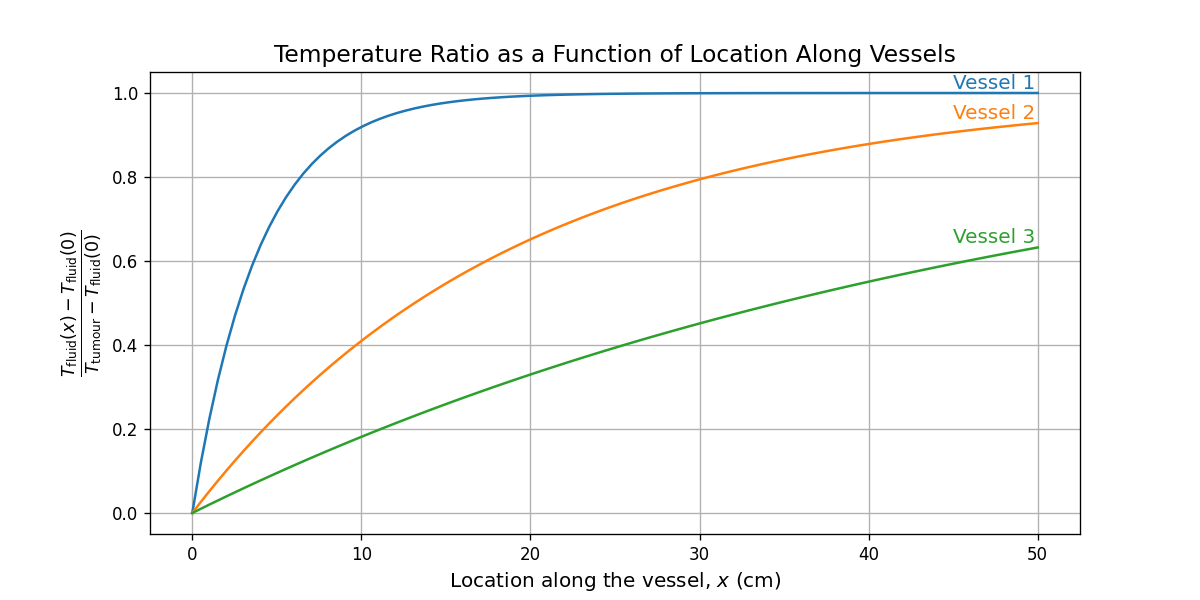
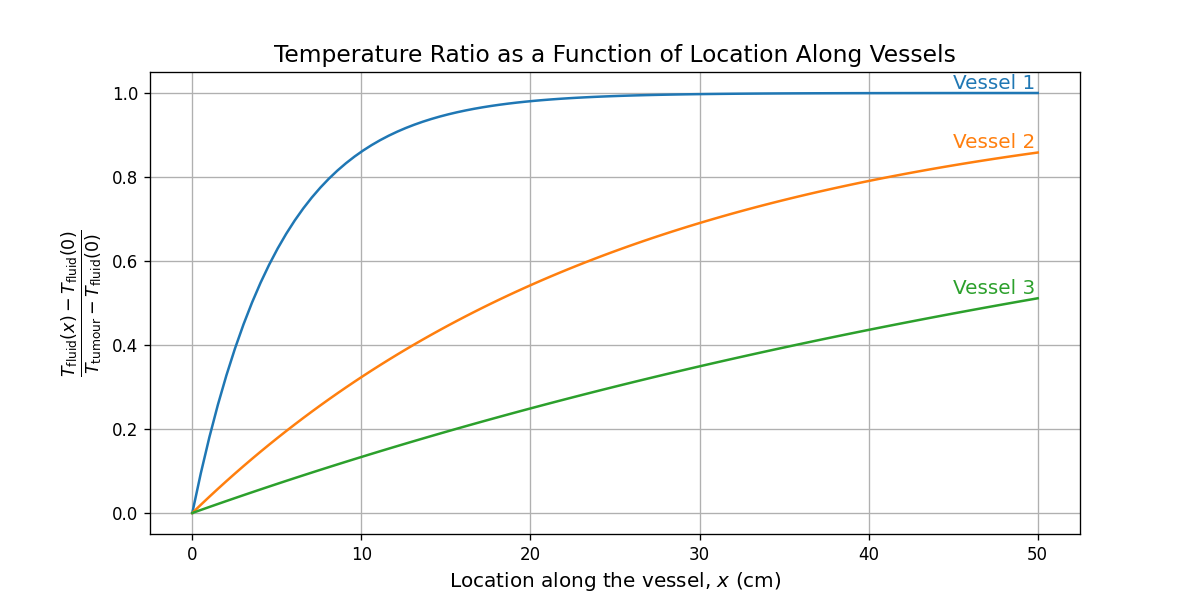
vessel system

diff --git a/src/ratio_along_vessel.py b/src/ratio_along_vessel.py
@@ -17,7 +17,7 @@ rho = 1000  # density of fluid in kg/m^3
 T_tumour = 42  # tumour temperature in °C
 
 # Initial conditions
-T_blood_initial = 37  # initial blood temperature in °C
+T_fluid_initial = 37  # initial fluid temperature in °C
 
 # Calculate step size
 dx = L / N
@@ -34,29 +34,26 @@ def vessel_temperature_distribution(v, R1):
     R_f = 1 / (np.pi * (R1 ** 2) * v * cfl * rho)
 
     # Arrays to store temperature values
-    T_blood = np.zeros(N)
-    T_wall = np.zeros(N)
+    T_fluid = np.zeros(N)
     Q = np.zeros(N)
 
     # Set initial values
-    T_blood[0] = T_blood_initial
-    Q[0] = (T_tumour-T_blood[0])/(R_f+R_w+R_t)
-    T_wall[0] = R_w*Q[0] + T_blood[0]
+    T_fluid[0] = T_fluid_initial
+    Q[0] = (T_tumour-T_fluid[0])/(R_f+R_w+R_t)
 
     # Iterative computation
     for i in range(N - 1):
         # Update fluid temperature
-        T_blood[i + 1] = T_blood[i] + Q[i]*R_f
-        Q[i+1] = (T_tumour-T_blood[i + 1])/(R_f+R_w+R_t)
-        T_wall[i + 1] = R_w*Q[i+1] + T_blood[i+1]
+        T_fluid[i + 1] = T_fluid[i] + Q[i]*R_f
+        Q[i+1] = (T_tumour-T_fluid[i + 1])/(R_f+R_w+R_t)
     
-    # df = pd.DataFrame({'x':x, 't_blood':T_blood, 't_wall':T_wall, 'Q': Q})
-    df = np.vstack((x, T_blood, T_wall, Q))
+    # df = pd.DataFrame({'x':x, 't_fluid':T_fluid, 't_wall':T_wall, 'Q': Q})
+    df = np.vstack((x, T_fluid, Q))
 
     return df
 
 def scale_t(t):
-    return (t - T_blood_initial) / (T_tumour - T_blood_initial)
+    return (t - T_fluid_initial) / (T_tumour - T_fluid_initial)
 
 
 # Define the temperature_distribution function
@@ -64,7 +61,7 @@ def temperature_distribution(v, R1, xcc):
     r = np.linspace(-R2/2, R2/2, 100) 
     # Calculate normalized temperature difference
     df1 = vessel_temperature_distribution(v, R1)
-    x_vals, t_wall_vals, q = df1[0], df1[2], df1[3]
+    x_vals, t_wall_vals, q = df1[0], df1[1], df1[2]
 
     x_index = np.argmin(np.abs(x_vals - xcc))
     T_tissue = t_wall_vals[x_index] + q[x_index] * ((np.log(np.abs(r) / R1) / (2 * np.pi * k * dx)))
@@ -76,7 +73,7 @@ def temperature_distribution(v, R1, xcc):
 # Vessel 1 Parameters
 R1_vessel1 = 0.5 / 1000  # radius in meters
 v_vessel1 = 1.0 / 100  # velocity in m/s
-R2 = 2.0 / 100  # radius of the tumour in meters
+R2 = 7.0 / 100  # radius of the tumour in meters
 
 # Vessel 2 Parameters
 R1_vessel2 = 1.0 / 1000  # radius in meters
@@ -103,8 +100,22 @@ xgr = 25/100  # x-axis (length along vessel in cm)
 r = np.linspace(-R2/2, R2/2, 100)  # radial axis (from -1 cm to 1 cm)
 
 # Calculate normalized temperature difference
-T_distribution = temperature_distribution(v_vessel2, R1_vessel2, xgr)
-T_normalized = scale_t(T_distribution)
+T_distribution_v1 = temperature_distribution(v_vessel1, R1_vessel1, xgr)
+T_normalized_v1 = scale_t(T_distribution_v1)
+
+T_distribution_v2 = temperature_distribution(v_vessel2, R1_vessel2, xgr)
+T_normalized_v2 = scale_t(T_distribution_v2)
+
+T_distribution_v3 = temperature_distribution(v_vessel3, R1_vessel3, xgr)
+T_normalized_v3 = scale_t(T_distribution_v3)
+
+a = np.loadtxt(f"{src_dir}/output_pbhe.txt")
+r_values_matlab = a[:, 0]
+vessel1_matlab = a[:, 1]
+vessel2_matlab = a[:, 2]
+vessel3_matlab = a[:, 3]
+
+# print(np.square(T_normalized_v2 - vessel2_matlab[:-1]).mean())
 
 # Plot results
 plt.figure(figsize=(10, 5))
@@ -130,12 +141,19 @@ plt.show()
 # Plot the temperature distribution
 fig = plt.figure(figsize=(12, 8))
 ax = fig.add_subplot(111)
-ax.plot(r*100, T_normalized, color='black', linewidth=1.5)
+ax.plot(r*100, T_normalized_v1, color='C0', label='Vessel 1', linewidth=1.5)
+ax.plot(r_values_matlab, vessel1_matlab, color='C0', label='Perfusion 1', linewidth=1.2, linestyle="--")
+ax.plot(r*100, T_normalized_v2, color='C1', label='Vessel 2', linewidth=1.5)
+ax.plot(r_values_matlab, vessel2_matlab, color='C1', label='Perfusion 2', linewidth=1.2, linestyle="--")
+ax.plot(r*100, T_normalized_v3, color='C2', label='Vessel 3', linewidth=1.5)
+ax.plot(r_values_matlab, vessel3_matlab, color='C2', label='Perfusion 3', linewidth=1.2, linestyle="--")
 
 # Customize the plot
 ax.set_xlabel('Radial Distance, $r$ (cm)', fontsize=12)
 ax.set_ylabel(r'$\frac{T_{\text{tissue}}(x, r) - T_{\text{fluid}}(0)}{T_{\text{tumour}} - T_{\text{fluid}}(0)}$', fontsize=12)
-ax.set_title(f'Temperature Distribution Along Radius, x={xgr}', fontsize=14)
+ax.set_title(f'Temperature Distribution Along Radius, x={xgr} m', fontsize=14)
 
+ax.legend()
+plt.grid(True)
 plt.savefig(f"{src_dir}/data/simulations/t_ratio_along_radius.png", dpi=120)
 plt.show()

diff --git a/src/system_vessel.py b/src/system_vessel.py
@@ -1,0 +1,126 @@
+import numpy as np
+import matplotlib.pyplot as plt
+import os
+import ratio_along_vessel as ral
+
+current_file = os.path.abspath(__file__)
+src_dir = os.path.dirname(current_file)
+
+
+# Constants
+L = 0.15  # height of the phantom in meters
+N = 100  # number of steps
+k = 0.6  # conductivity of tissue
+
+cfl = 4186  # specific heat capacity of fluid in J/kg°C
+rho = 1000  # density of fluid in kg/m^3
+T_tumour = 42  # tumour temperature in °C
+T_min = 37  # minimum temperature in °C
+
+# Calculate step size
+dx = L / N
+x = np.linspace(0, L, N)
+R2 = 7/100
+r = np.linspace(0, 2*R2, 100)
+
+# Function to calculate temperature distribution for a vessel
+def temperature_distribution(v, R1, xcc):
+    # Heat transfer coefficient (h)
+    h = 3.66 * k / (2 * R1)
+
+    # Resistances
+    R_w = 1 / (2 * np.pi * R1 * h * dx)
+    R_t = np.log(R2 / R1) / (2 * np.pi * k * dx)
+    R_f = 1 / (np.pi * (R1 ** 2) * v * cfl * rho)
+
+    # Set initial values
+    df1 = ral.vessel_temperature_distribution(v, R1)
+    x_vals, t_fluid, q = df1[0], df1[1], df1[2]
+
+    x_index = np.argmin(np.abs(x_vals - xcc))
+    T_fluid = t_fluid[x_index]
+    Q = q[x_index]
+
+    T_wall1 = T_fluid - Q*R_w
+    T_wall2 = T_fluid + Q*R_w
+
+    T_tissue1 = T_wall1 - Q * ((np.log(np.abs(r) / R1) / (2 * np.pi * k * dx)))
+    T_tissue2 = T_wall2 + Q * ((np.log(np.abs(r) / R1) / (2 * np.pi * k * dx)))
+
+    T = np.where(x <= 0.5 - R1, T_wall2 - Q*(L/2-R1+x)/k,
+                 np.where((0.5 - R1 < x) & (x <= 0.5 + R1), T_fluid,
+                          T_wall1 + Q*(L/2-R1+x)/k))
+    return T
+
+def scale_t(t):
+    return (t - T_min) / (T_tumour - T_min)
+
+def temperature_distribution(v, R1, xcc):
+    r = np.linspace(-R2/2, R2/2, 100) 
+    # Calculate normalized temperature difference
+    df1 = vessel_temperature_distribution(v, R1)
+    x_vals, t_wall_vals, q = df1[0], df1[1], df1[2]
+
+    x_index = np.argmin(np.abs(x_vals - xcc))
+    T_tissue = t_wall_vals[x_index] + q[x_index] * ((np.log(np.abs(r) / R1) / (2 * np.pi * k * dx)))
+    T = np.where(np.abs(r)<=R1, t_wall_vals[x_index], T_tissue)
+    return T
+
+# Vessel 1 Parameters
+R1_vessel1 = 0.5 / 1000  # radius in meters
+v_vessel1 = 1.0 / 100  # velocity in m/s
+# R2 = 4.0 / 100  # radius of the tumour in meters
+
+# Vessel 2 Parameters
+R1_vessel2 = 1.0 / 1000  # radius in meters
+v_vessel2 = 1.5 / 100  # velocity in m/s
+
+# Vessel 3 Parameters
+R1_vessel3 = 1.5 / 1000  # radius in meters
+v_vessel3 = 2.0 / 100  # velocity in m/s
+
+# Grid settings
+xgr = 25/100  # x-axis (length along vessel in cm)
+
+# Calculate normalized temperature difference
+T_distribution_v1 = temperature_distribution(v_vessel1, R1_vessel1, xgr)
+T_normalized_v1 = scale_t(T_distribution_v1)
+
+T_distribution_v2 = temperature_distribution(v_vessel2, R1_vessel2, xgr)
+T_normalized_v2 = scale_t(T_distribution_v2)
+
+T_distribution_v3 = temperature_distribution(v_vessel3, R1_vessel3, xgr)
+T_normalized_v3 = scale_t(T_distribution_v3)
+
+# a = np.loadtxt(f"{src_dir}/output_pbhe.txt")
+# r_values_matlab = a[:, 0]
+# vessel1_matlab = a[:, 1]
+# vessel2_matlab = a[:, 2]
+# vessel3_matlab = a[:, 3]
+
+# print(np.square(T_normalized_v2 - vessel2_matlab[:-1]).mean())
+
+# Plot results
+plt.figure(figsize=(10, 5))
+x_values = np.linspace(0, 100 * L, N)
+
+
+# Plot the temperature distribution
+fig = plt.figure(figsize=(12, 8))
+ax = fig.add_subplot(111)
+ax.plot(x*100, T_normalized_v1, color='C0', label='Vessel 1', linewidth=1.5)
+# ax.plot(r_values_matlab, vessel1_matlab, color='C0', label='Perfusion 1', linewidth=1.2, linestyle="--")
+ax.plot(x*100, T_normalized_v2, color='C1', label='Vessel 2', linewidth=1.5)
+# ax.plot(r_values_matlab, vessel2_matlab, color='C1', label='Perfusion 2', linewidth=1.2, linestyle="--")
+ax.plot(x*100, T_normalized_v3, color='C2', label='Vessel 3', linewidth=1.5)
+# ax.plot(r_values_matlab, vessel3_matlab, color='C2', label='Perfusion 3', linewidth=1.2, linestyle="--")
+
+# Customize the plot
+ax.set_xlabel('Radial Distance, $r$ (cm)', fontsize=12)
+ax.set_ylabel(r'$\frac{T_{\text{tissue}}(x, r) - T_{\text{fluid}}(0)}{T_{\text{tumour}} - T_{\text{fluid}}(0)}$', fontsize=12)
+ax.set_title(f'Temperature Distribution Along Radius, x={xgr} m', fontsize=14)
+
+ax.legend()
+plt.grid(True)
+plt.savefig(f"{src_dir}/data/simulations/t_ratio_along_radius.png", dpi=120)
+plt.show()

diff --git a/src/prova.py b/src/prova.py
@@ -7,44 +7,9 @@ current_file = os.path.abspath(__file__)
 src_dir = os.path.dirname(current_file)
 git_dir = os.path.dirname(src_dir)
 
-# eng = matlab.engine.start_matlab()
-# eng.cd(src_dir, nargout=0)
-# eng.simple_script(nargout=0)
-# eng.quit()
+eng = matlab.engine.start_matlab()
+eng.cd(src_dir, nargout=0)
+eng.simple_script(nargout=0)
+eng.quit()
 
 
-# Constants
-a = 1.0  # You can change this value
-b = .04  # You can change this value
-yb = .80 # Boundary condition value
-
-# Derived constant
-lambda_ = np.sqrt(b / a)
-
-# Constants for the solution
-C1 = yb * (1 - np.exp(-lambda_)) / (2 * np.sinh(lambda_))
-C2 = yb * (np.exp(lambda_) + 1) / (2 * np.sinh(lambda_))
-
-# Function for the solution
-def y(x):
-    return C1 * np.exp(lambda_ * x) + C2 * np.exp(-lambda_ * x)
-
-# Define the domain
-x_values = np.linspace(0, 1, 500)
-
-# Compute y values
-y_values = y(x_values)
-
-# Plot the solution
-plt.figure(figsize=(10, 6))
-plt.plot(x_values, y_values, label=r'$y(x) = C_1 e^{\lambda x} + C_2 e^{-\lambda x}$', color='blue')
-plt.axhline(y=yb, color='gray', linestyle='--', linewidth=1, label=r'$y(0) = y(1) = y_b$')
-plt.scatter([0, 1], [yb, yb], color='red', zorder=5)
-plt.title('Solution of the Differential Equation')
-plt.xlabel('x')
-plt.ylabel('y(x)')
-plt.grid(True)
-plt.legend()
-# plt.xlim(0, 1)
-# plt.ylim(0.9 * yb, 1.1 * yb)
-plt.show()
